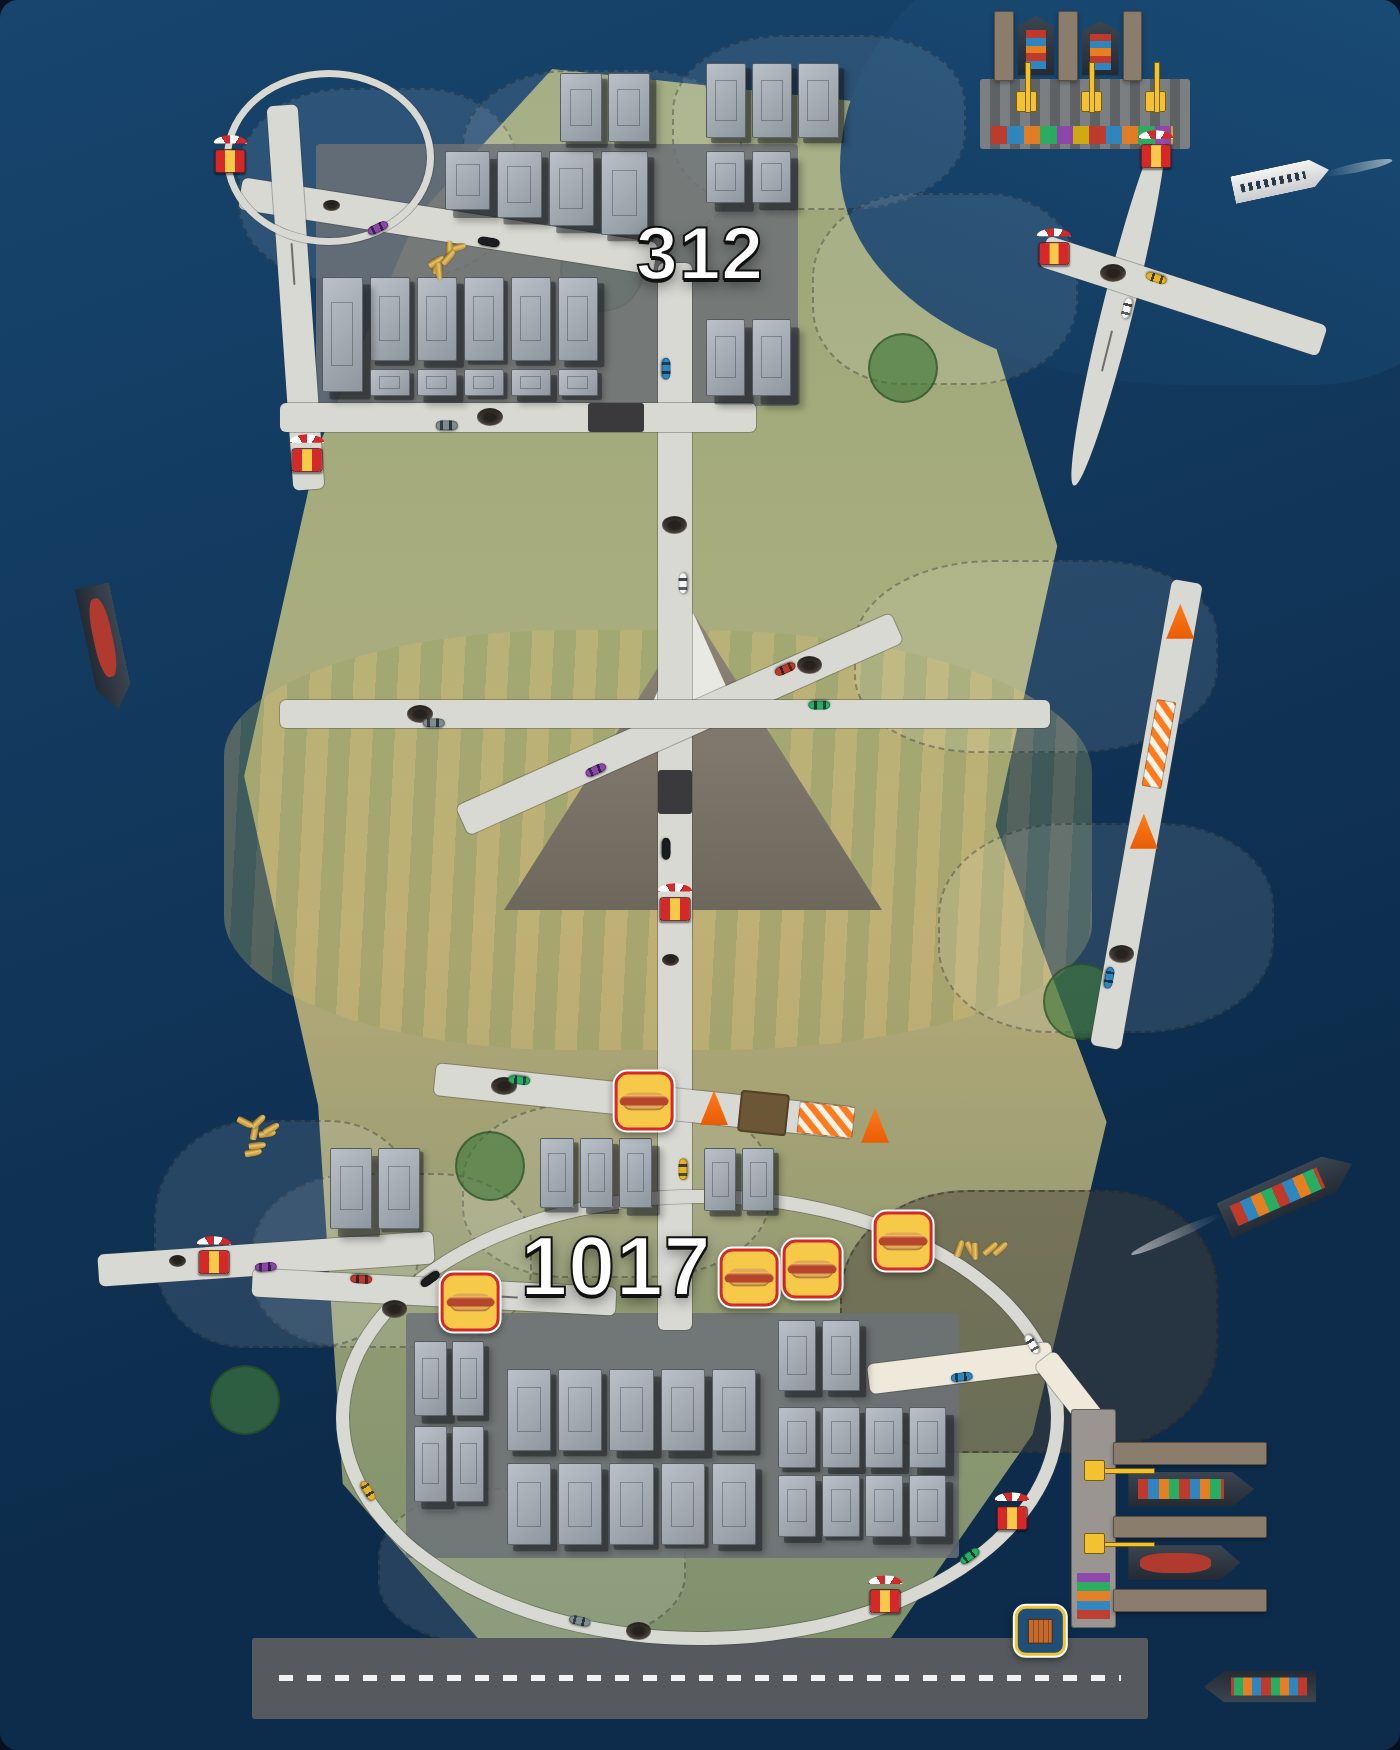
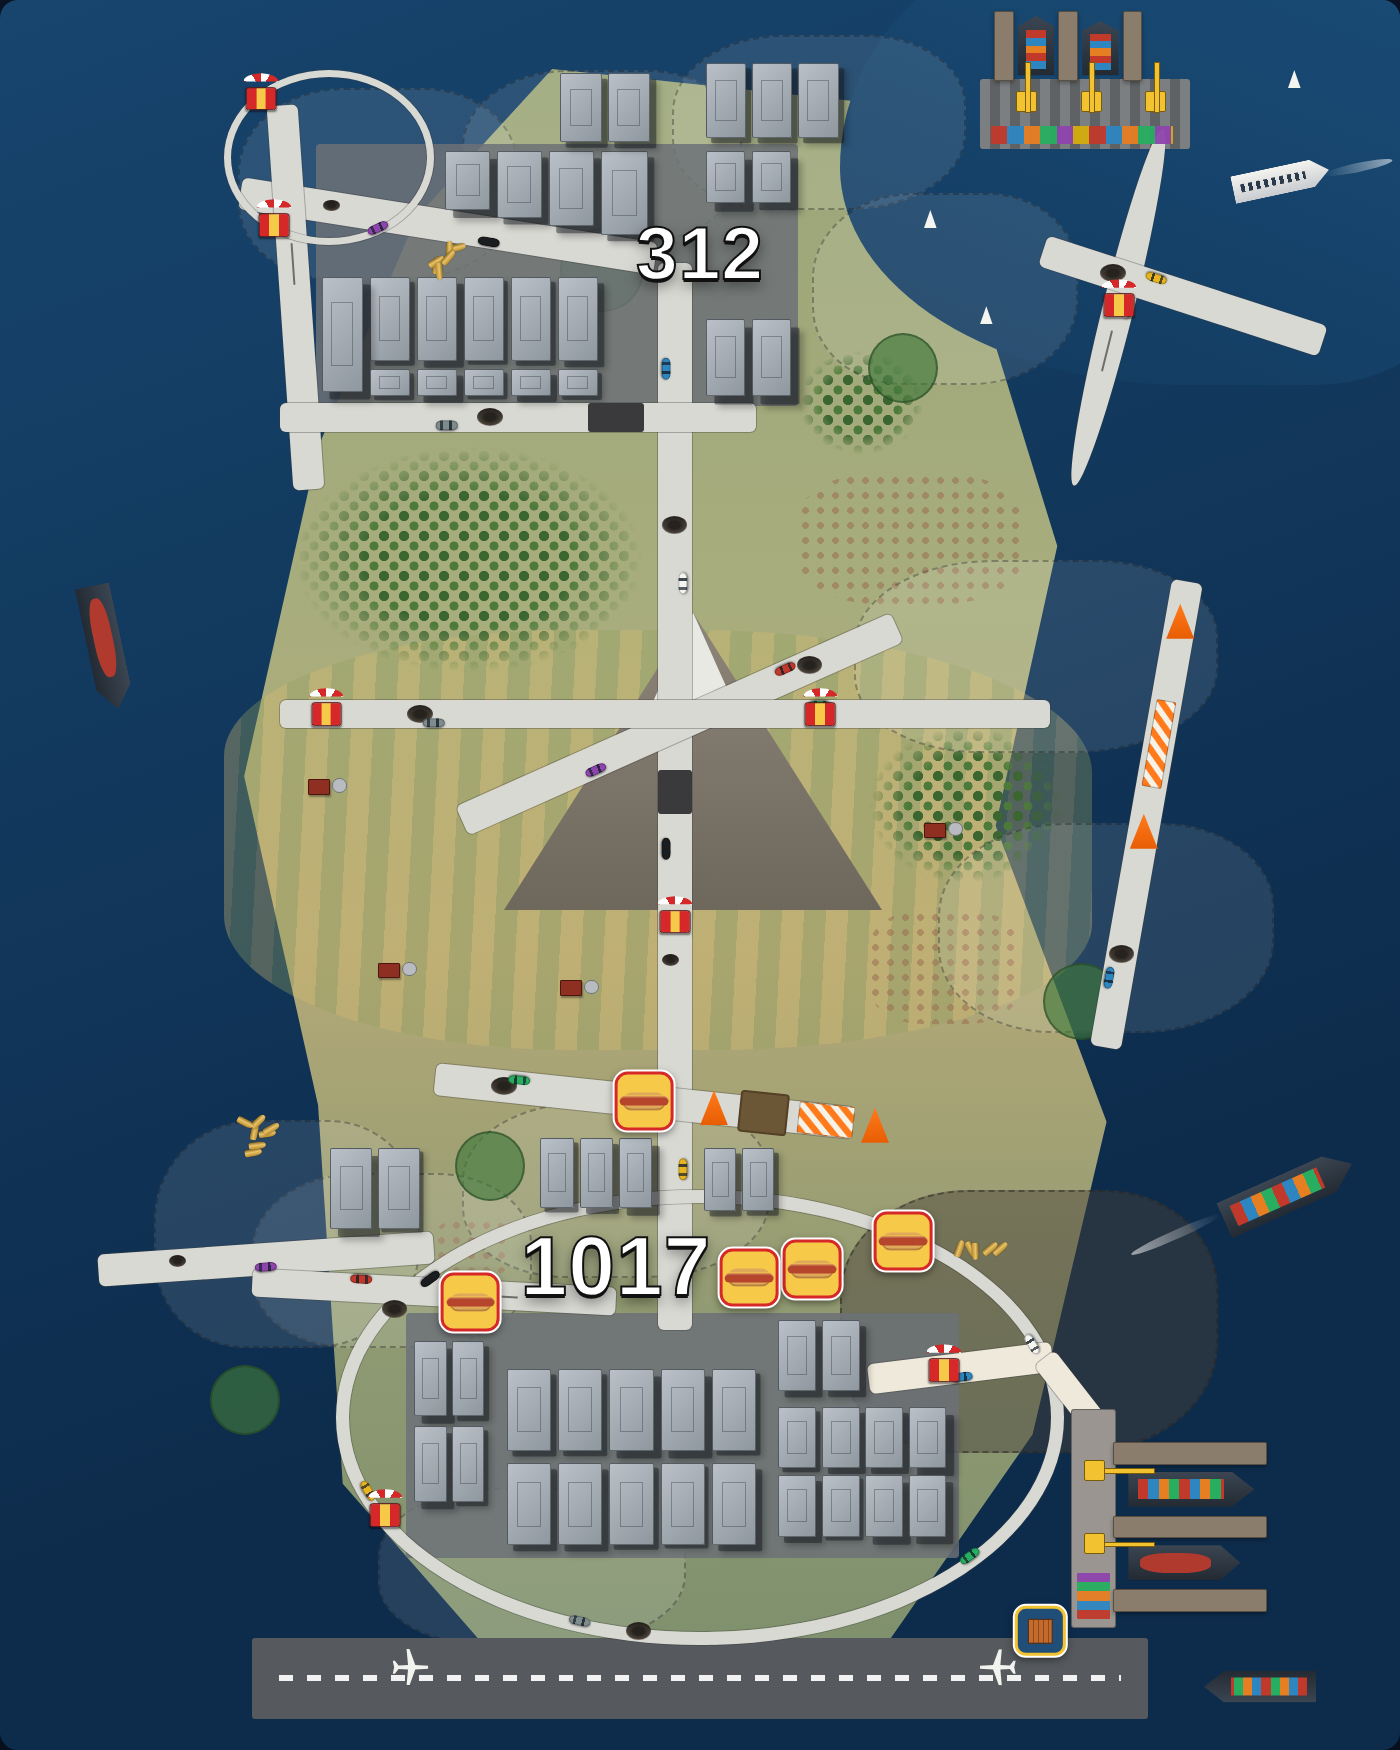
More detail on the big map, and a legend under it
Map: woods between Palisade and County Line, at the mountain's east foot
and round Harbor Green; houses in the Backroads neighbourhood, Harvest Flats
and Alder Heights; four farmsteads (barn and silo) in the fields; sailboats
on the lake; planes on the runway.

Legend: a panel below the map with a swatch for every kind of thing drawn,
each reusing the map's own class. The hot dog cart script now only moves
carts on the map, not the legend's sample.

Claude-Session: https://claude.ai/code/session_01FagBtygwPmHUod4bPZTnD1

diff --git a/map-detail-glizzys-2-go.js b/map-detail-glizzys-2-go.js
@@ -57,7 +57,7 @@
         const lengths = ROADS.map(length);
         const total = lengths.reduce((a, b) => a + b, 0);
         const taken = [];
-        for (const cart of document.querySelectorAll(".glizzys-2-go:not(.glizzys-2-go-station)")) {
+        for (const cart of document.querySelectorAll(".map .glizzys-2-go")) {
             for (let tries = 0; tries < 300; tries++) {
                 let pick = Math.random() * total, i = 0;   // longer roads get more carts
                 while (pick > lengths[i]) pick -= lengths[i++];
